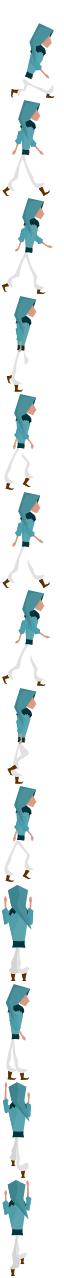
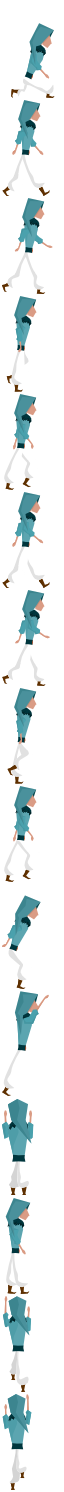
Myrddon know has an animation for jump

Changed region(s): [[0.0312, 0.0, 0.8438, 1.0], [0.0312, 0.4272, 0.125, 0.4577]]

diff --git a/core/src/fr/imac/myrddin/game/myrddin/MyrddinJump.java b/core/src/fr/imac/myrddin/game/myrddin/MyrddinJump.java
@@ -3,14 +3,19 @@ package fr.imac.myrddin.game.myrddin;
 import com.badlogic.gdx.Gdx;
 import com.badlogic.gdx.Input;
 import com.badlogic.gdx.graphics.g2d.Animation;
+import com.badlogic.gdx.graphics.g2d.TextureAtlas;
+import com.badlogic.gdx.graphics.g2d.Animation.PlayMode;
+import com.badlogic.gdx.math.Rectangle;
 import com.badlogic.gdx.math.Vector2;
 
+import fr.imac.myrddin.MyrddinGame;
 import fr.imac.myrddin.game.myrddin.MyrddinState.StateType;
 
 public class MyrddinJump extends MyrddinState {
 
 	public MyrddinJump(Myrddin myrddin) {
-		super(myrddin, null);
+		//super(myrddin, null);
+		super(myrddin, new Animation(0.1f, MyrddinGame.assetManager.get("myrddin/myrddin.atlas", TextureAtlas.class).findRegions("jump"), PlayMode.NORMAL));
 		myrddin.applyImpulse(new Vector2(0f, 10 * myrddin.getMass()));
 		Vector2 velocity = myrddin.getLinearVelocity();
 	}
@@ -32,6 +37,11 @@ public class MyrddinJump extends MyrddinState {
 		
 		moveInTheAir();
 		
+	}
+	
+	@Override
+	public void setNewRectBox() {
+		myrddin.setNewRectBox(new Rectangle(myrddin.getX(), myrddin.getY(), 47, 105), new Rectangle(5, 5, 40, 90));
 	}
 
 	@Override
